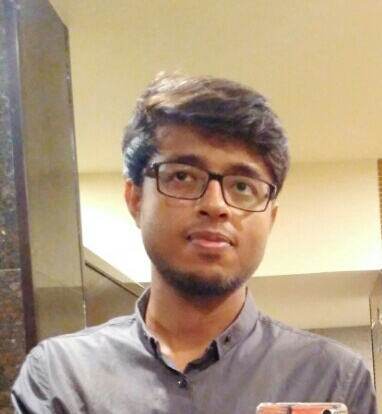
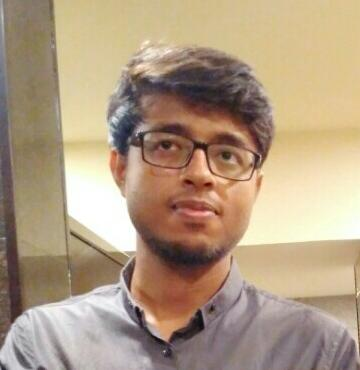
Project Screenshots and Education added

diff --git a/js/resumeBuilder.js b/js/resumeBuilder.js
@@ -22,7 +22,7 @@ var projects = {
 			title: "TPO Automation Project - Python based Desktop Application",
 			dates: "Jan 2016 – Feb 2016",
 			description: "Developed GUI for the desktop App using wxPython",
-			images: []
+			images: ["images/TPC1.jpg", "images/TPC2.jpg", "images/TPC4.jpg"]
 		}
 	]
 };
@@ -31,12 +31,12 @@ var bio = {
 	name: "Ayush Aman",
 	role: "App and Web developer",
 	contact: {
-		phone: "+91 7052469479",
+		mobile: "+91 7052469479",
 	 	email: "aayushamann@gmail.com",
 	 	github: "aayushamann",
-	 	location: "Lucnow, UP, India"
+	 	location: "Lucknow, Uttar Pradesh, India"
 	},
-	biopic: "images/fry.jpg",
+	biopic: "images/Ayush.jpg",
 	welcomeMessage: "Welcome",
 	skills: ["HTML", "CSS", "JavaScript", "PHP", "Android", "Python"]
 };
@@ -48,7 +48,7 @@ var education = {
 			location: "DLW, Varanasi, UP, India",
 			degree: "High School",
 			dates: "2010 - 2011",
-			urlStrings: "", 
+			url: "", 
 			majors: ["Computer Science", "Science", "Maths"]
 		},
 		{
@@ -80,8 +80,10 @@ var education = {
 
 var formattedName = HTMLheaderName.replace("%data%", bio.name);
 var formattedRole = HTMLheaderRole.replace("%data%", bio.role);
+var formattedBioPic = HTMLbioPic.replace("%data%", bio.biopic);
 $("#header").prepend(formattedRole);
 $("#header").prepend(formattedName);
+$("#header").append(formattedBioPic);
 
 if(bio.skills.length > 0) {
 	$('#header').append(HTMLskillsStart);
@@ -94,6 +96,16 @@ if(bio.skills.length > 0) {
 		$('#skills').append(formattedSkill);
 	}
 }
+
+var formattedMobile = HTMLmobile.replace("%data%", bio.contact.mobile);
+var formattedEmail = HTMLemail.replace("%data%", bio.contact.email);
+var formattedGithub = HTMLgithub.replace("%data%", bio.contact.github);
+var formattedLocation = HTMLlocation.replace("%data%", bio.contact.location);
+$("#topContacts").append(formattedMobile);
+$("#topContacts").append(formattedEmail);
+$("#topContacts").append(formattedGithub);
+$("#topContacts").append(formattedLocation);
+
 
 function displayWork() {
 	for(var i = 0; i < work.jobs.length; i++) {
@@ -112,21 +124,14 @@ if(work.jobs.length > 0) {
 	displayWork();
 }
 
-$(document).click(function(loc) {
-  // your code goes here
-  var x = loc.pageX;
-  var y = loc.pageY;
-  logClicks(x, y);
-});
+// $('#main').append(internationalizeButton);
 
-$('#main').append(internationalizeButton);
-
-function inName(name) {
-	name = name.trim().split(" ");
-	name[0] = name[0].slice(0,1).toUpperCase() + name[0].slice(1).toLowerCase();
-	name[1] = name[1].toUpperCase();
-	return name[0] + " " + name[1];
-}
+// function inName(name) {
+// 	name = name.trim().split(" ");
+// 	name[0] = name[0].slice(0,1).toUpperCase() + name[0].slice(1).toLowerCase();
+// 	name[1] = name[1].toUpperCase();
+// 	return name[0] + " " + name[1];
+// }
 
 projects.display = function() {
 	for(project in projects.projects) {
@@ -150,4 +155,23 @@ projects.display = function() {
 	}
 }
 
+education.display = function() {
+	for(school in education.schools) {
+		$('#education').append(HTMLschoolStart);
+
+		var formattedName = HTMLschoolName.replace("%data%", education.schools[school].name);
+		var formattedDegree = HTMLschoolDegree.replace("%data%", education.schools[school].degree);
+		var formattedDates = HTMLschoolDates.replace("%data%", education.schools[school].dates);
+		var formattedLocation = HTMLschoolLocation.replace("%data%", education.schools[school].location);
+		var formattedMajor = HTMLschoolMajor.replace("%data%", education.schools[school].majors);
+
+		$('.education-entry:last').append(formattedName);
+		$('.education-entry:last').append(formattedDegree);
+		$('.education-entry:last').append(formattedDates);
+		$('.education-entry:last').append(formattedLocation);
+		$('.education-entry:last').append(formattedMajor);
+	}
+}
+
 projects.display();
+education.display();

diff --git a/index.html b/index.html
@@ -21,12 +21,6 @@
 </head>
 <body>
   <div id="main">
-    <!--
-    Everything from here to the <script> tag below is the skeleton of your
-    website. Your code will add information to each of the sections of the
-    resume below. You can pretty easily figure out what each section will
-    display by looking at the id or at what's written between the <h2> tags.
-    -->
     <div id="header" class="center-content clear-fix">
       <ul id="topContacts" class="flex-box"></ul>
     </div>

diff --git a/js/helper.js b/js/helper.js
@@ -87,6 +87,9 @@ function logClicks(x,y) {
 
 $(document).click(function(loc) {
   // your code goes here!
+  var x = loc.pageX;
+  var y = loc.pageY;
+  logClicks(x, y);
 });
 
 
